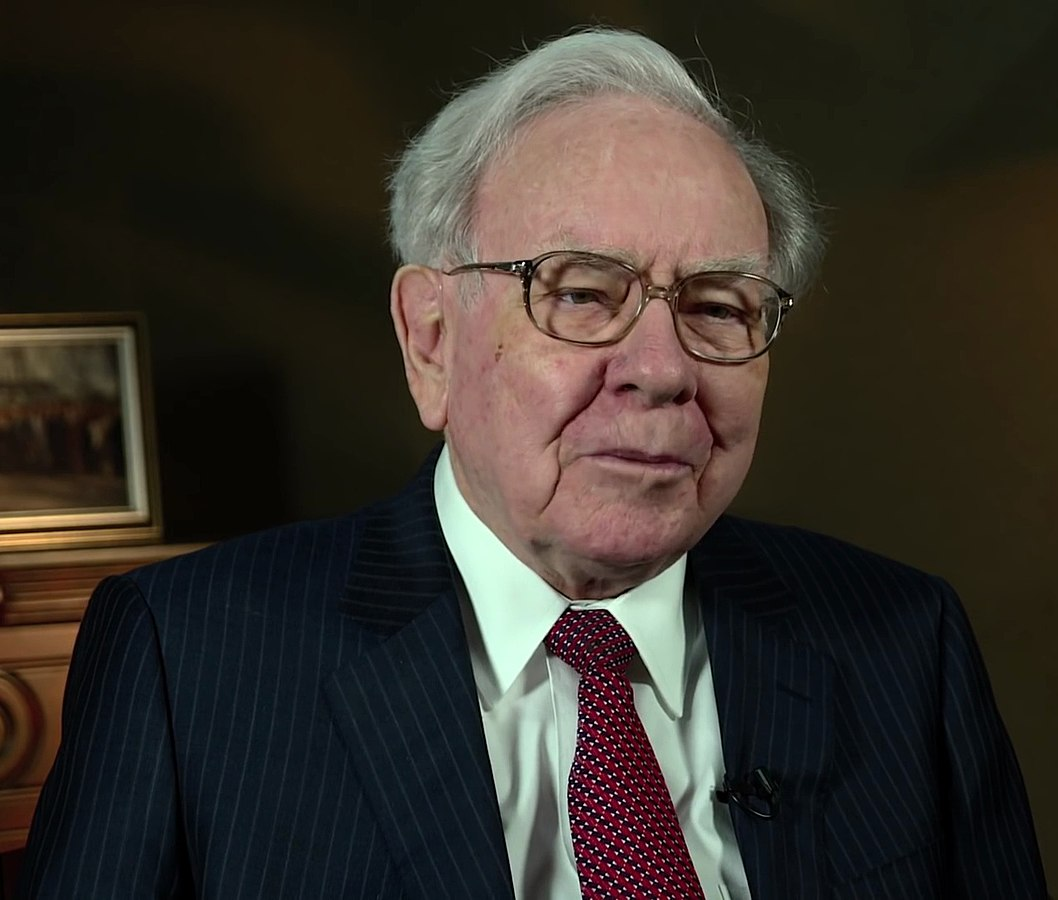
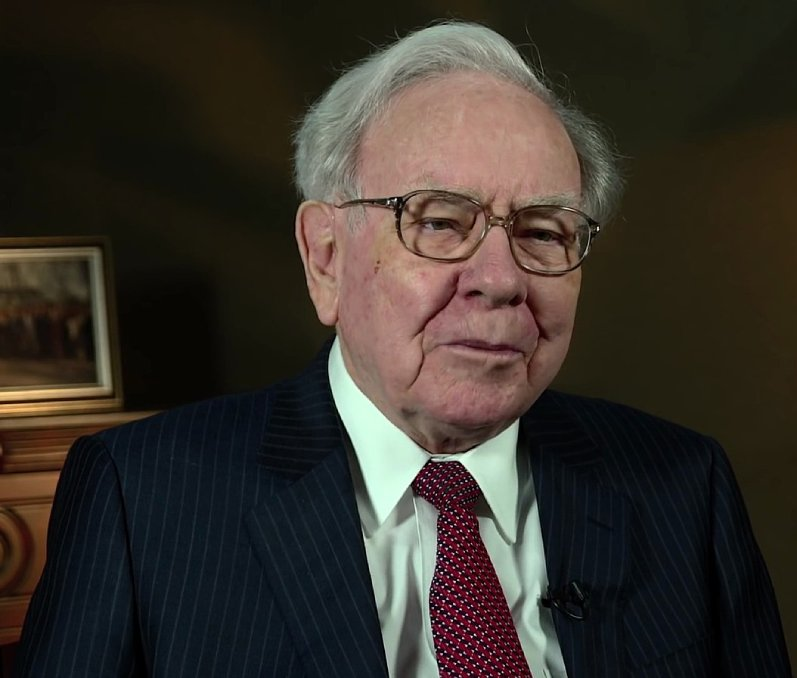
commit temporaire : ajoutd'une zone mais problème de footer

diff --git a/css/inner_pages.css b/css/inner_pages.css
@@ -19,33 +19,28 @@ header {
 
 .title {
     position: relative;
-    padding-bottom: 5px; /* Optionnel: Espace entre le texte et les lignes */
+    padding-bottom: 5px;
 }
 
 .title::before {
     content: "";
     position: absolute;
-    bottom: 2px; /* Positionnement: 5px sous le texte */
+    bottom: 2px;
     left: 0;
     
-    width: 100%; /* Cette ligne prend toute la largeur du titre */
-    height: 5px; /* Épaisseur de la première ligne */
-    background-color: rgb(43, 139, 212); /* Couleur de la première ligne */
+    width: 100%;
+    height: 5px;
+    background-color: rgb(43, 139, 212);
 }
 
 .title::after {
     content: "";
     position: absolute;
-    bottom: -5px; /* Positionnement: 0px sous le texte (donc sous la première ligne) */
+    bottom: -5px;
     left: 0;
-    
-    width: 70%; /* Cette ligne est plus courte, 70% de la largeur du titre */
-    height: 4.5px; /* Épaisseur plus fine */
-    background-color: rgb(43, 139, 212, 0.6); /* Couleur de la première ligne */
-    
-    /* Optionnel: Centrer cette ligne plus courte si vous le souhaitez */
-    /* left: 50%; */
-    /* transform: translateX(-50%); */
+    width: 70%;
+    height: 4.5px;
+    background-color: rgb(43, 139, 212, 0.6);
 }
 
 .home{
@@ -58,14 +53,8 @@ header {
     background-image: url("../pics/fond_gaming2.jpg");
     background-repeat: no-repeat;
     background-size: 3000px 2000px;
-    /* Utilisez 'cover' pour remplir toute la zone sans déformation */
     background-size: cover;
     background-position: top;
 }
-
-
-
-
-
 
 

diff --git a/css/investisseur.css b/css/investisseur.css
@@ -4,25 +4,17 @@
     flex-direction: column;
     align-items: center;
     justify-content: flex-start;
-    height: 100%;
     position: relative;
 }
 
 .content #list_investor {
     height: 6% ;
     width: 80% ;
-    margin-bottom: 4vh;
-    margin-top: 4vh;
+    margin-bottom: 2vh;
+    margin-top: 2vh;
     display: flex;
     align-items: center;
     justify-content: space-around;
-}
-
-#button {
-    height: 80%;
-    width: 18%;
-    border-radius: 0.4vw;
-    
 }
 
 .glow-on-hover {
@@ -87,21 +79,38 @@
 }
 
 .content #explications_investor{
-    position: absolute;
     height: 70% ;
     width: 80% ;
     background-color: rgba(73, 226, 56, 0.5);
 }
 
-#photo_exp {
-    width: 40vh;
+#photo_exp_b {
+    width: 30vh;
     height: auto;
 }
 
+#photo_exp {
+    width: 38vh;
+    height: auto;
+}
+
+#box_vide {
+    position: relative;
+    height: auto ;
+    width: 100% ;
+    background-color: rgba(27, 23, 75, 0.8);
+    margin-bottom: 2vh; 
+    display: flex;         
+    align-items: center;
+    justify-content: flex-start;
+    padding-top: 2vh; 
+    padding-bottom: 2vh;
+    border-color: #fff;
+}
 
 #box_exp1, #box_exp2, #box_exp3 {
     position: relative;
-    height: 33% ;
+    height: auto ;
     width: 100% ;
     background-color: #00ffd5;
     margin-bottom: 2vh; 

diff --git a/fichier_html/investisseur_h.html b/fichier_html/investisseur_h.html
@@ -9,7 +9,7 @@
 <link rel="shortcut icon" href="../pics/logo3.png" type="image/png">
 <link rel="stylesheet" href="../css/inner_pages.css">
 <link rel="stylesheet" href="../css/navbar.css">
-<link rel="stylesheet" href="../css/sidebar.css">
+<link rel="stylesheet" href="../css/footer.css">
 <link rel="stylesheet" href="../css/investisseur.css">
 </head>
 
@@ -62,8 +62,9 @@
                 <button class="glow-on-hover" type="button">George Soros</button>
             </div>
             <div id="explications_investor">
+                <div id="box_vide"></div>
                 <div id="box_exp1">
-                    <img src="../pics/Warren_Buffett_1.jpg" alt="Warren Buffett" id="photo_exp" />
+                    <img src="../pics/Warren_Buffett_1.jpg" alt="Warren Buffett" id="photo_exp_b" />
                     <p id= "text">
                 Warren Buffett, surnommé l'Oracle d'Omaha, est l'un des investisseurs les plus respectés au monde.
                 Sa carrière est le reflet d'une adhésion stricte à l'investissement value, une stratégie popularisée

diff --git a/fichier_html/bougie_h.html b/fichier_html/bougie_h.html
@@ -9,7 +9,7 @@
 <link rel="shortcut icon" href="../pics/logo3.png" type="image/png">
 <link rel="stylesheet" href="../css/inner_pages.css">
 <link rel="stylesheet" href="../css/navbar.css">
-<link rel="stylesheet" href="../css/sidebar.css">
+<link rel="stylesheet" href="../css/footer.css">
 </head>
 
 

diff --git a/fichier_html/figure_h.html b/fichier_html/figure_h.html
@@ -9,7 +9,7 @@
 <link rel="shortcut icon" href="../pics/logo3.png" type="image/png">
 <link rel="stylesheet" href="../css/inner_pages.css">
 <link rel="stylesheet" href="../css/navbar.css">
-<link rel="stylesheet" href="../css/sidebar.css">
+<link rel="stylesheet" href="../css/footer.css">
 </head>
 
 

diff --git a/fichier_html/place_h.html b/fichier_html/place_h.html
@@ -9,7 +9,7 @@
 <link rel="shortcut icon" href="../pics/logo3.png" type="image/png">
 <link rel="stylesheet" href="../css/inner_pages.css">
 <link rel="stylesheet" href="../css/navbar.css">
-<link rel="stylesheet" href="../css/sidebar.css">
+<link rel="stylesheet" href="../css/footer.css">
 </head>
 
 

diff --git a/fichier_html/session_h.html b/fichier_html/session_h.html
@@ -9,7 +9,7 @@
 <link rel="shortcut icon" href="../pics/logo3.png" type="image/png">
 <link rel="stylesheet" href="../css/inner_pages.css">
 <link rel="stylesheet" href="../css/navbar.css">
-<link rel="stylesheet" href="../css/sidebar.css">
+<link rel="stylesheet" href="../css/footer.css">
 </head>
 
 

diff --git a/css/footer.css b/css/footer.css
@@ -1,3 +1,4 @@
 .footer{
+    position: fixed;
     background-color: #1a2746;
 }
